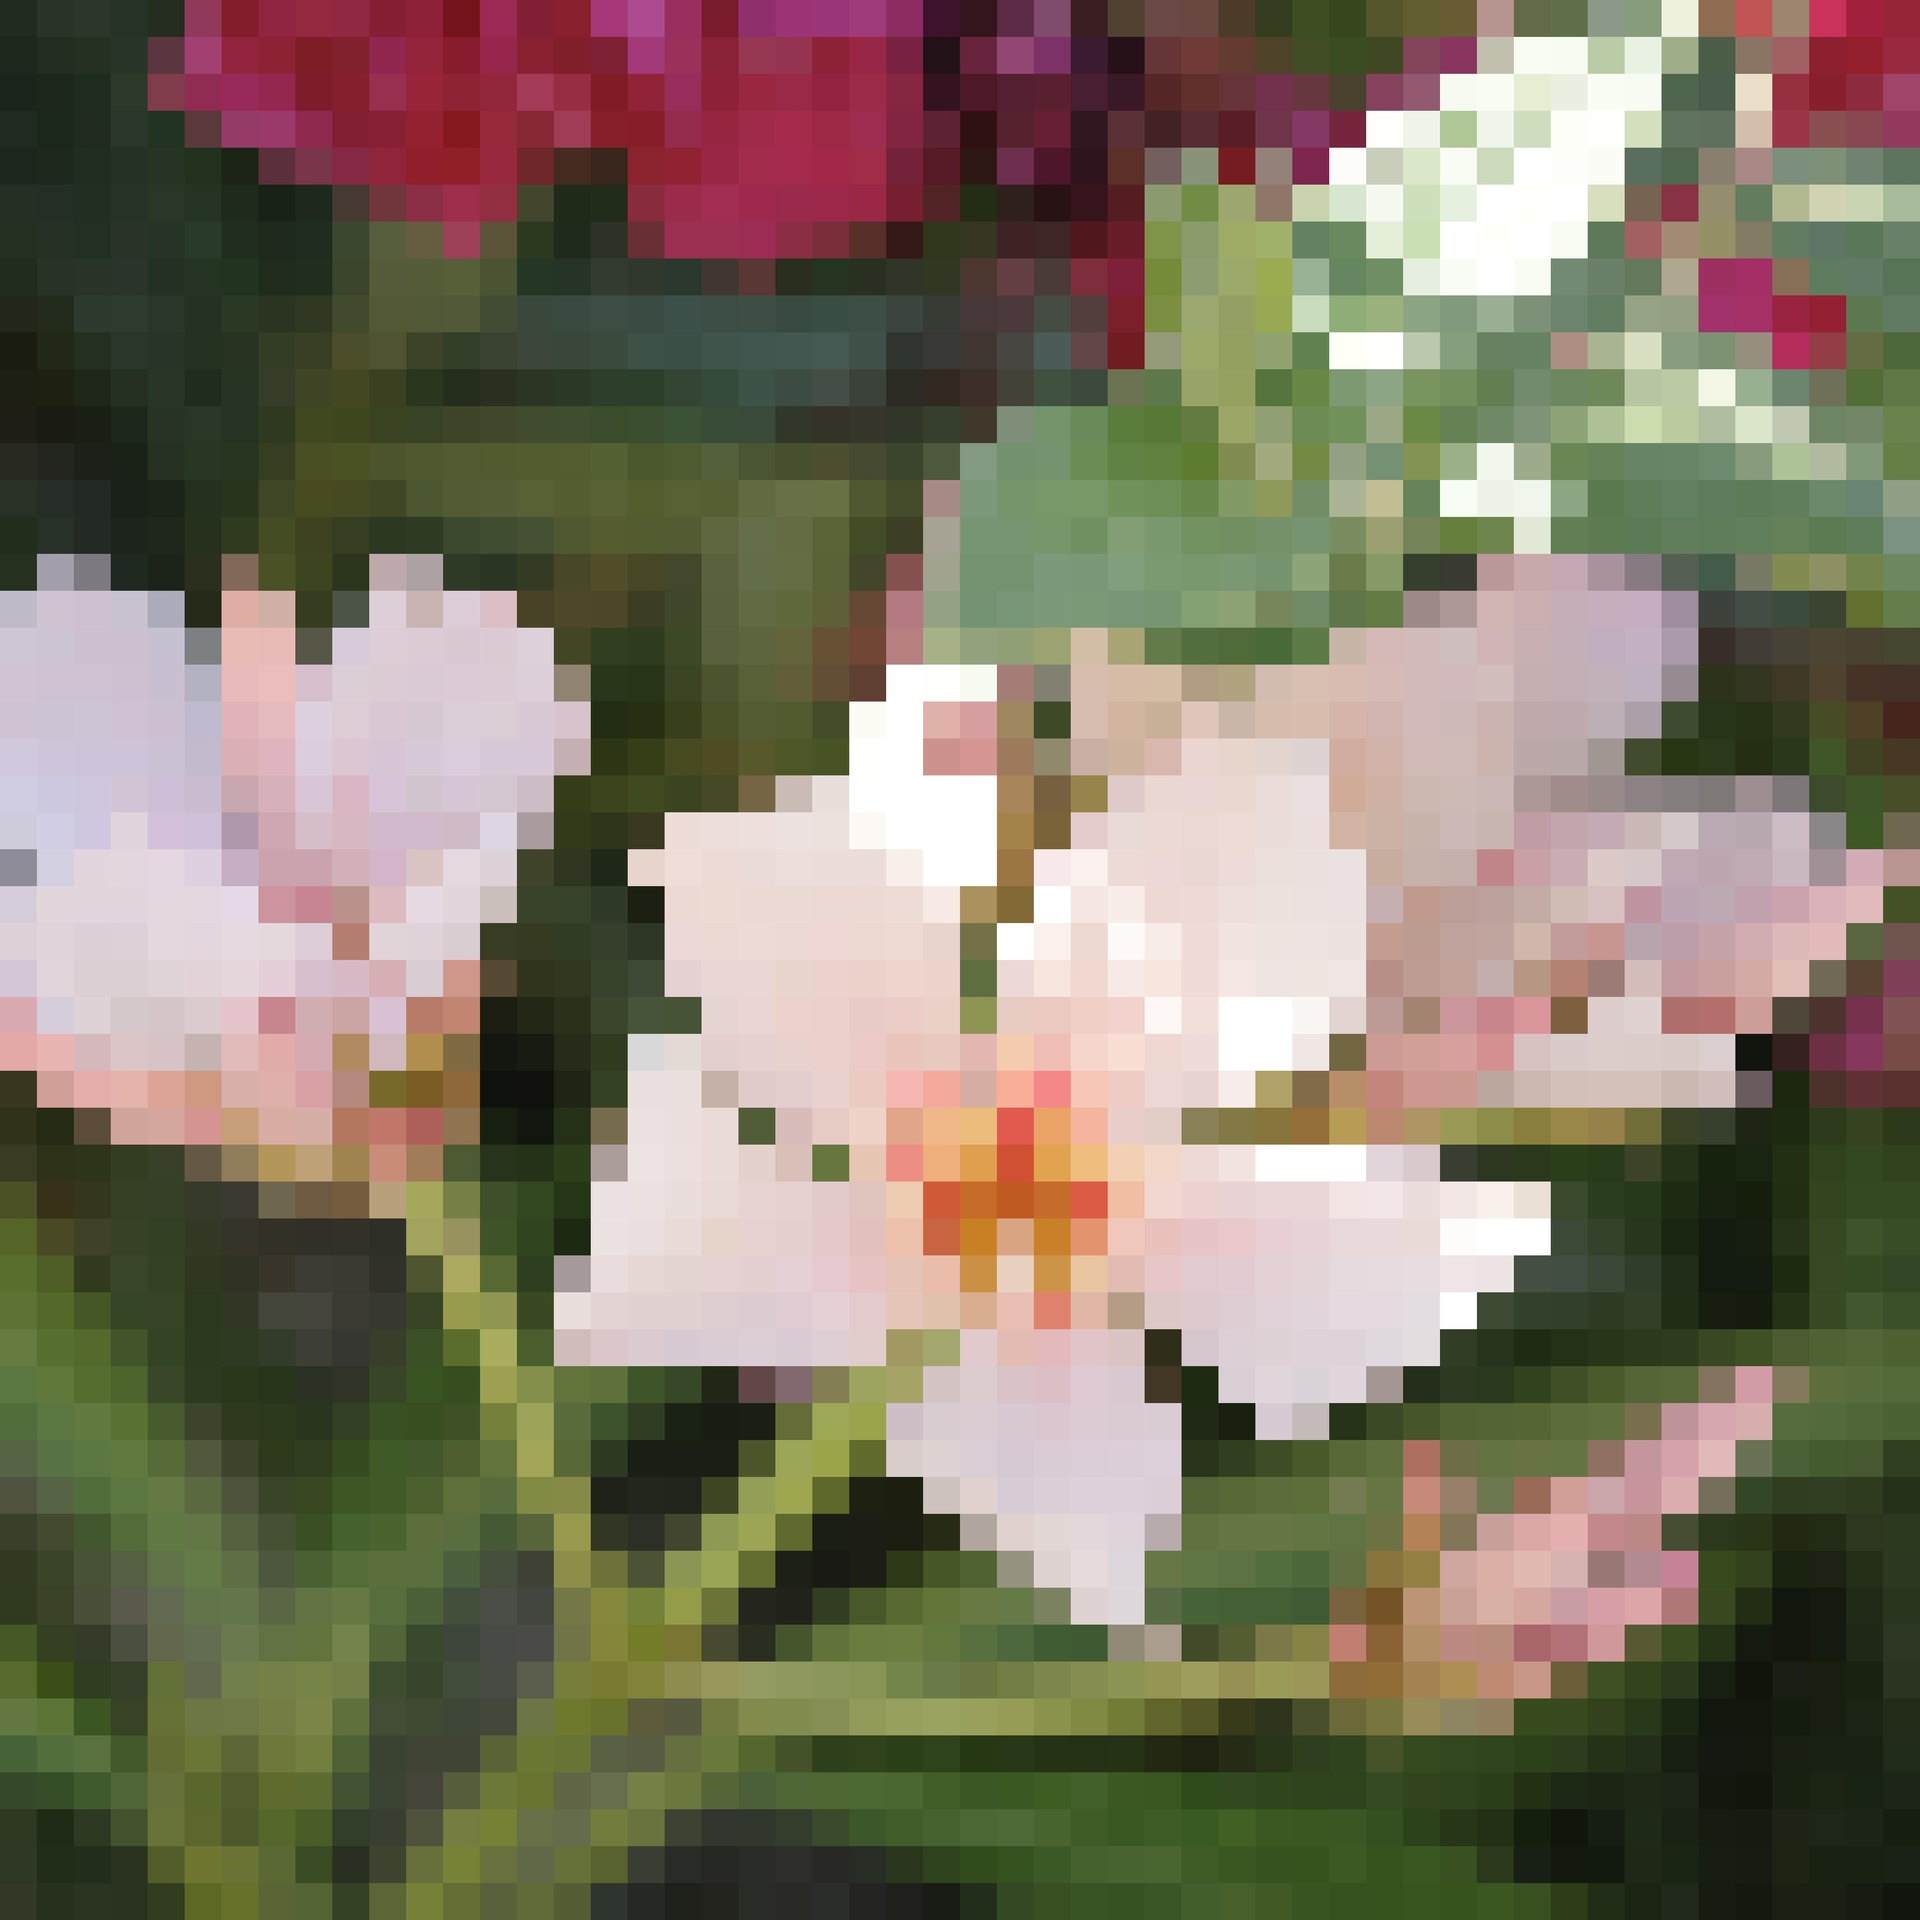
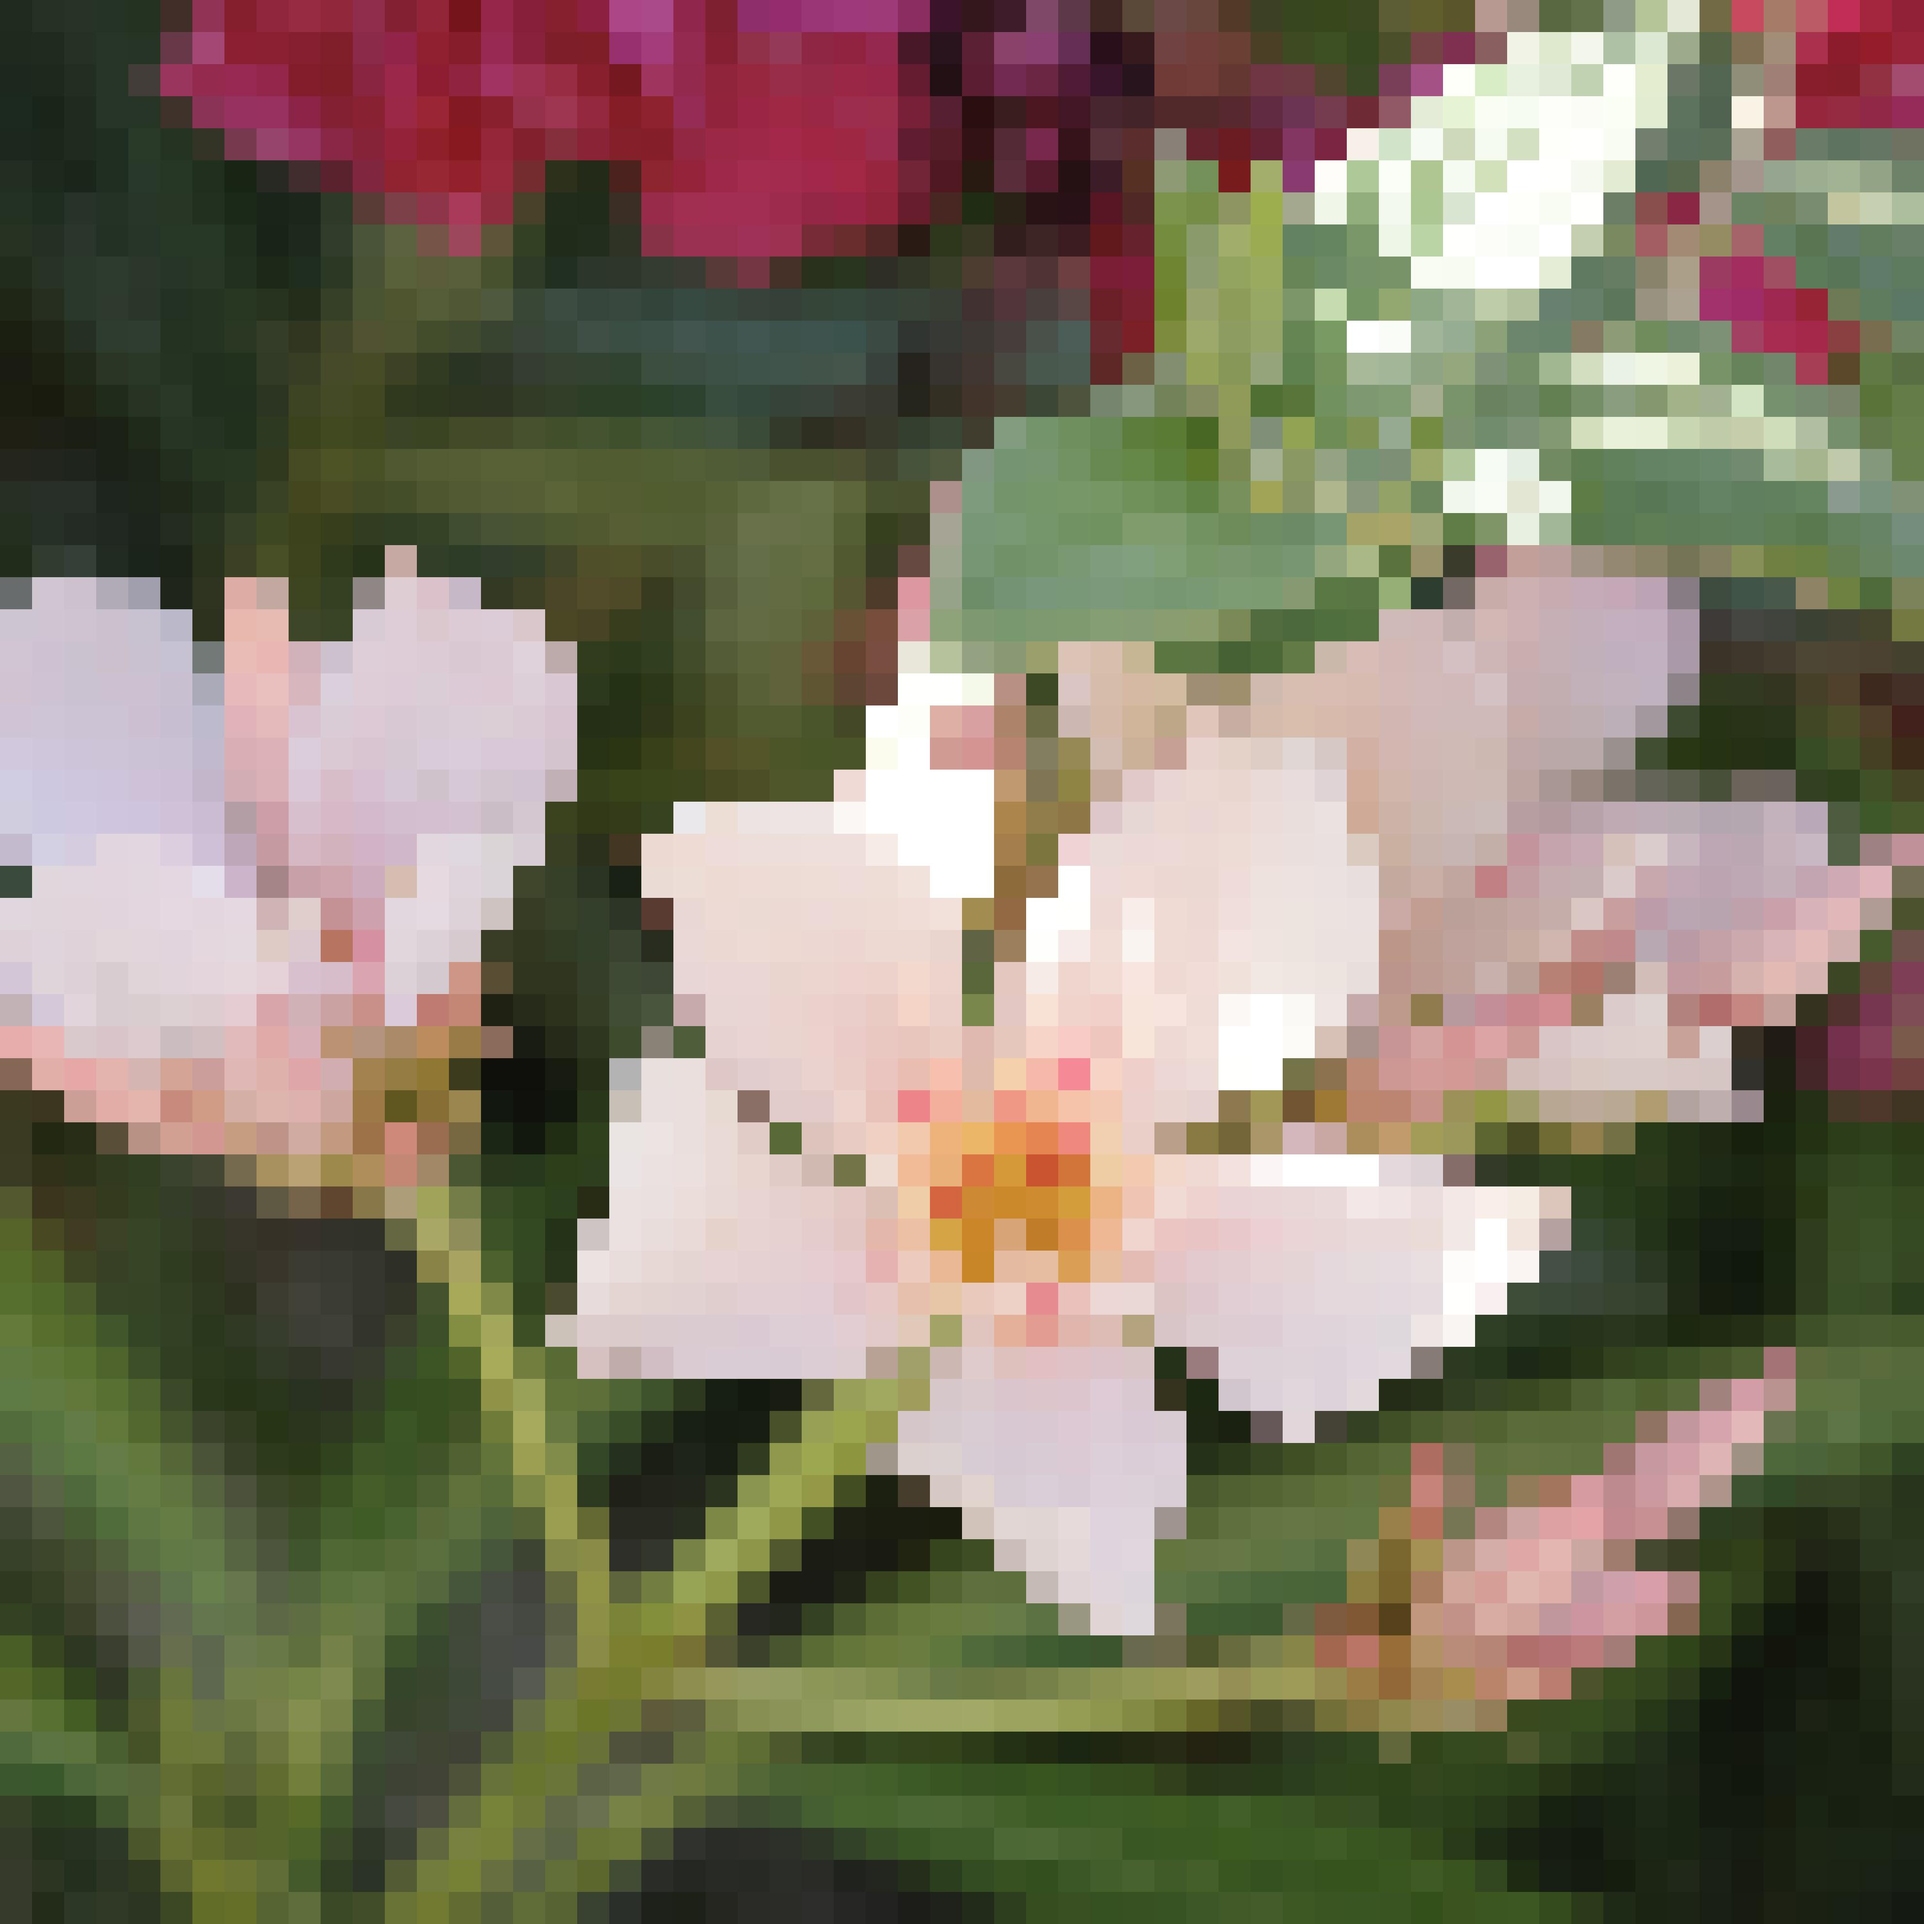
Pixelating stages

diff --git a/test.py b/test.py
@@ -1,0 +1,17 @@
+import pixelate
+from matplotlib import pyplot as plt
+from matplotlib import image
+
+for pixels in range(500,0,-100):
+    pixelate.pixelate('_R000222.jpg', 'pixel.jpg', pixels)
+
+    img = image.imread("pixel.jpg")
+    plt.imshow(img)
+    plt.show(block=False)
+    plt.pause(0.001)
+
+    sentence = "What is this image?\n1. Mountain\n2. Flowers\n3. Pretty Face\n\nChoose option or press enter to show more clearly: "
+
+    a = input(sentence)
+
+    plt.clf()

diff --git a/stickyface.py b/stickyface.py
@@ -1,3 +1,4 @@
 import pixelate
-pixelate.pixelate('IMG_1503.jpg', 'mountain.jpg', 8)
-pixelate.pixelate('_R000222.jpg', 'flowers.jpg', 76)
+pixelate.pixelate('IMG_1503.jpg', 'mountain.jpg', 20)
+pixelate.pixelate('_R000222.jpg', 'flowers.jpg', 66)
+
